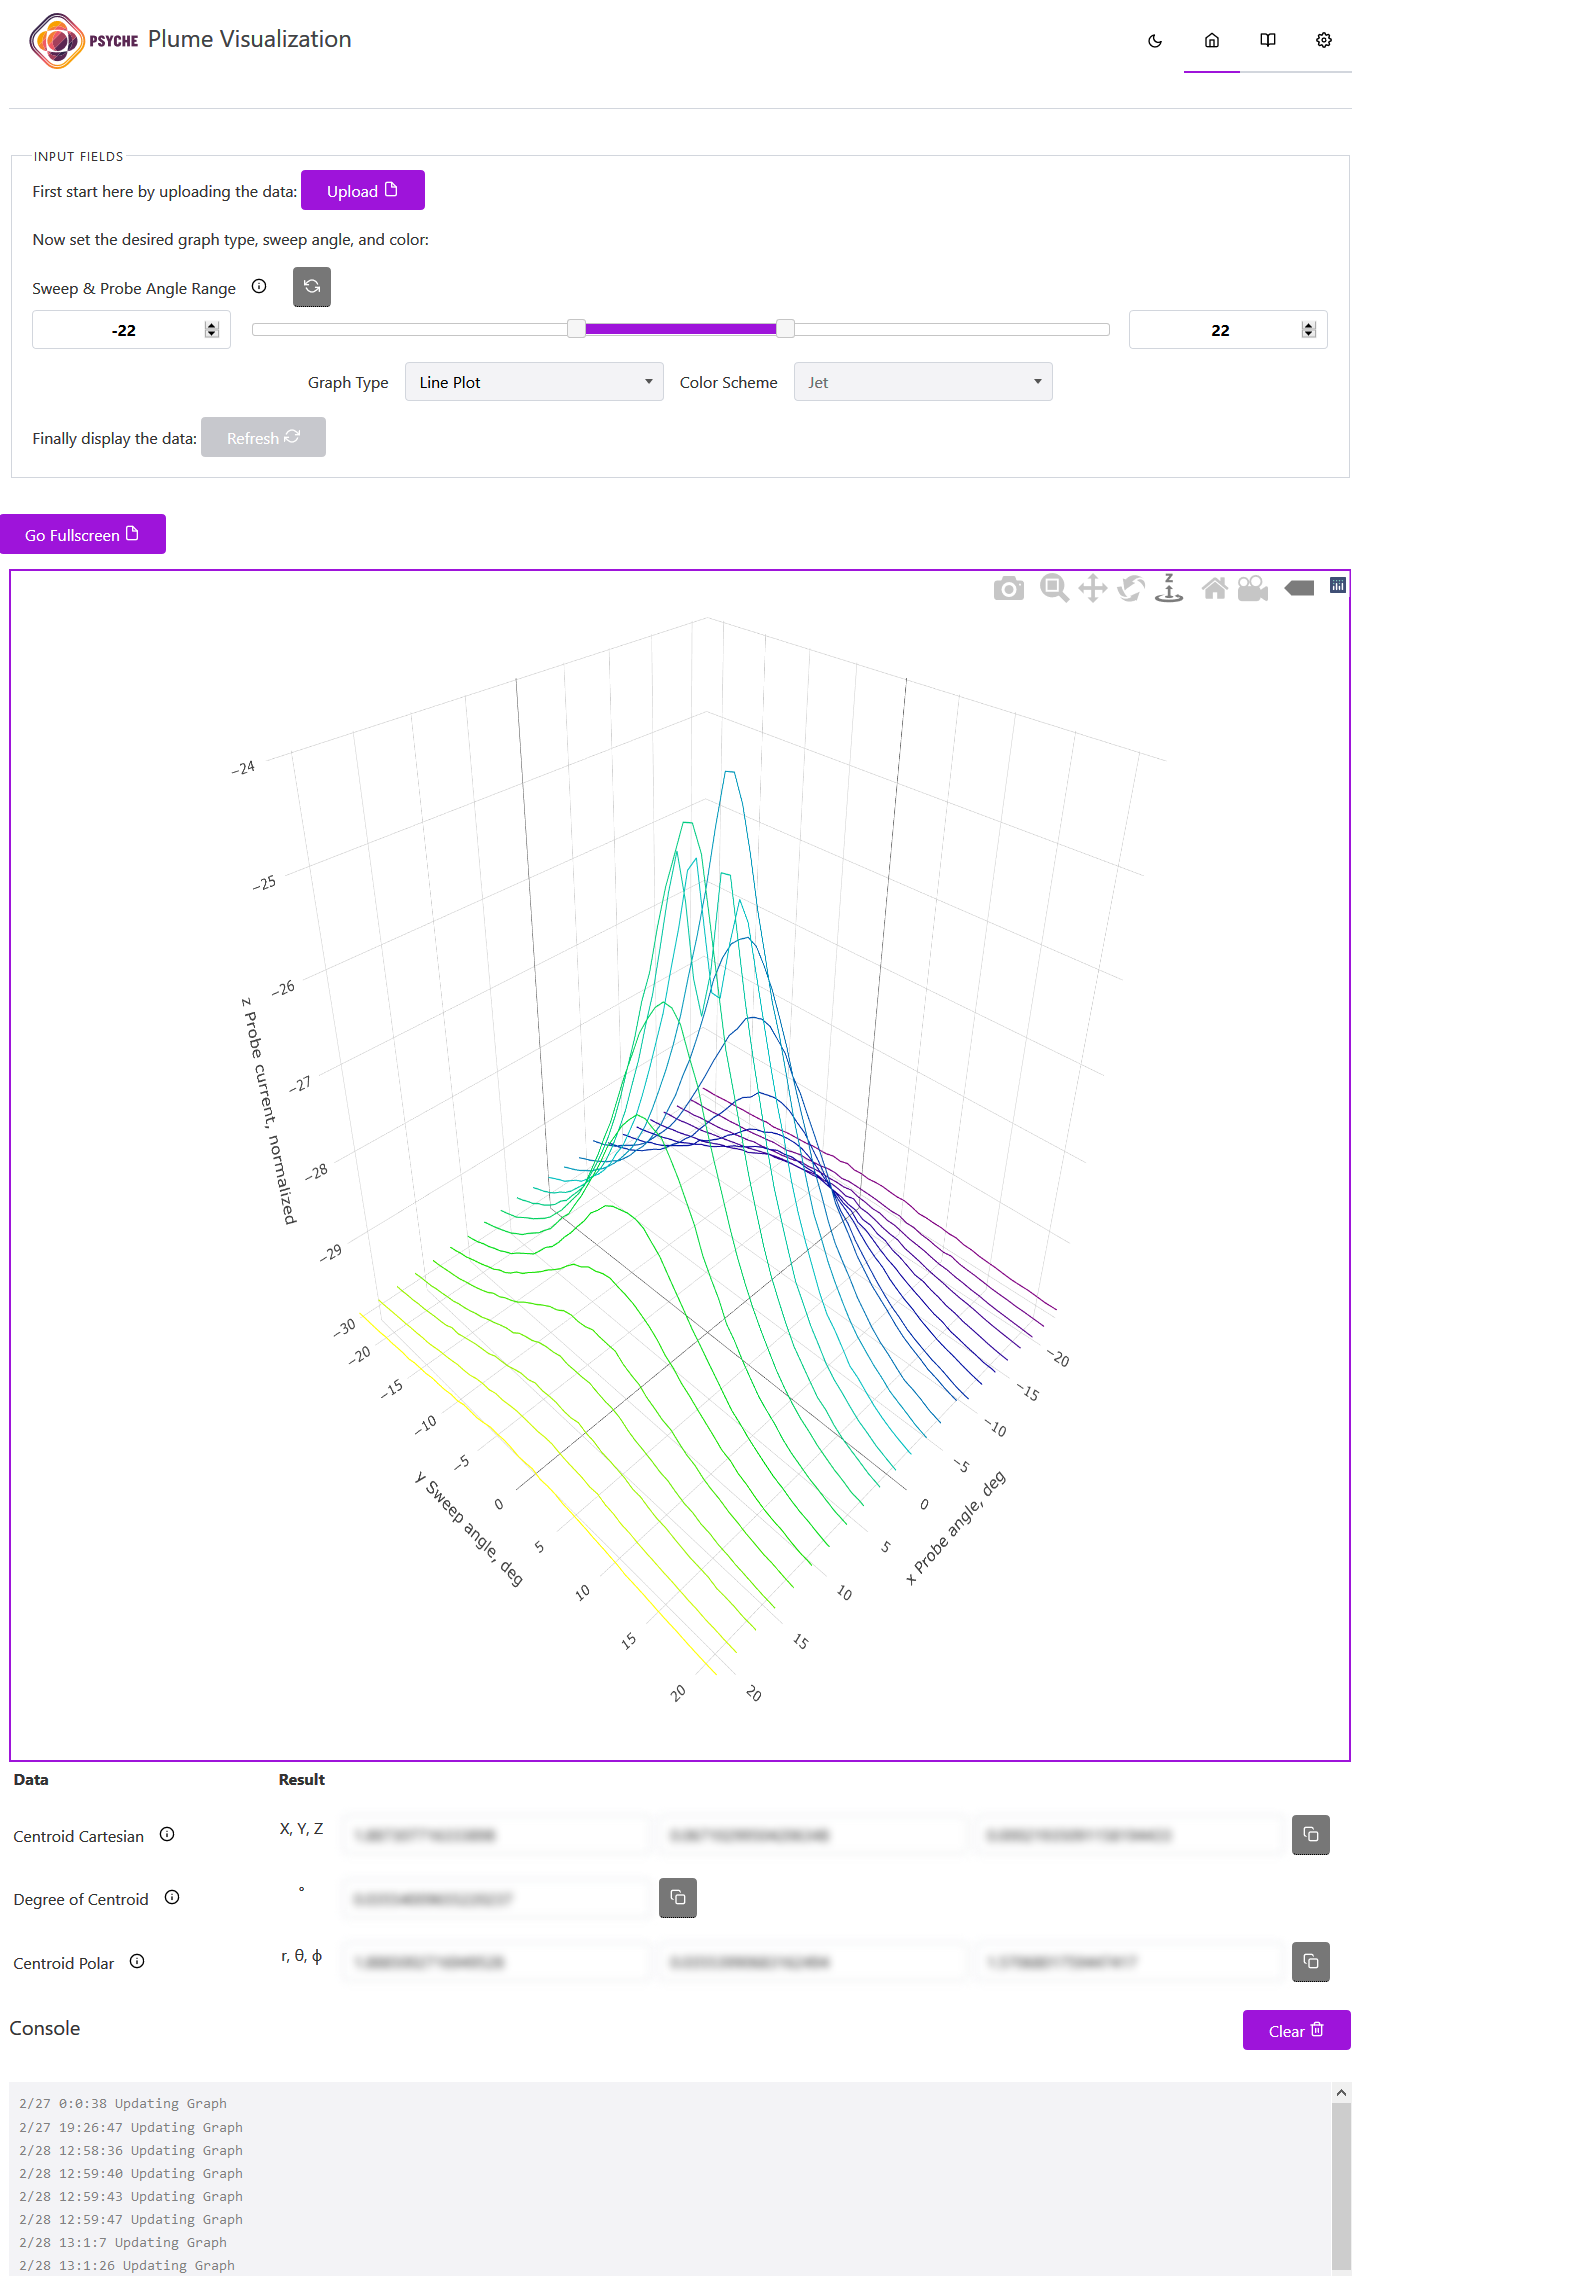
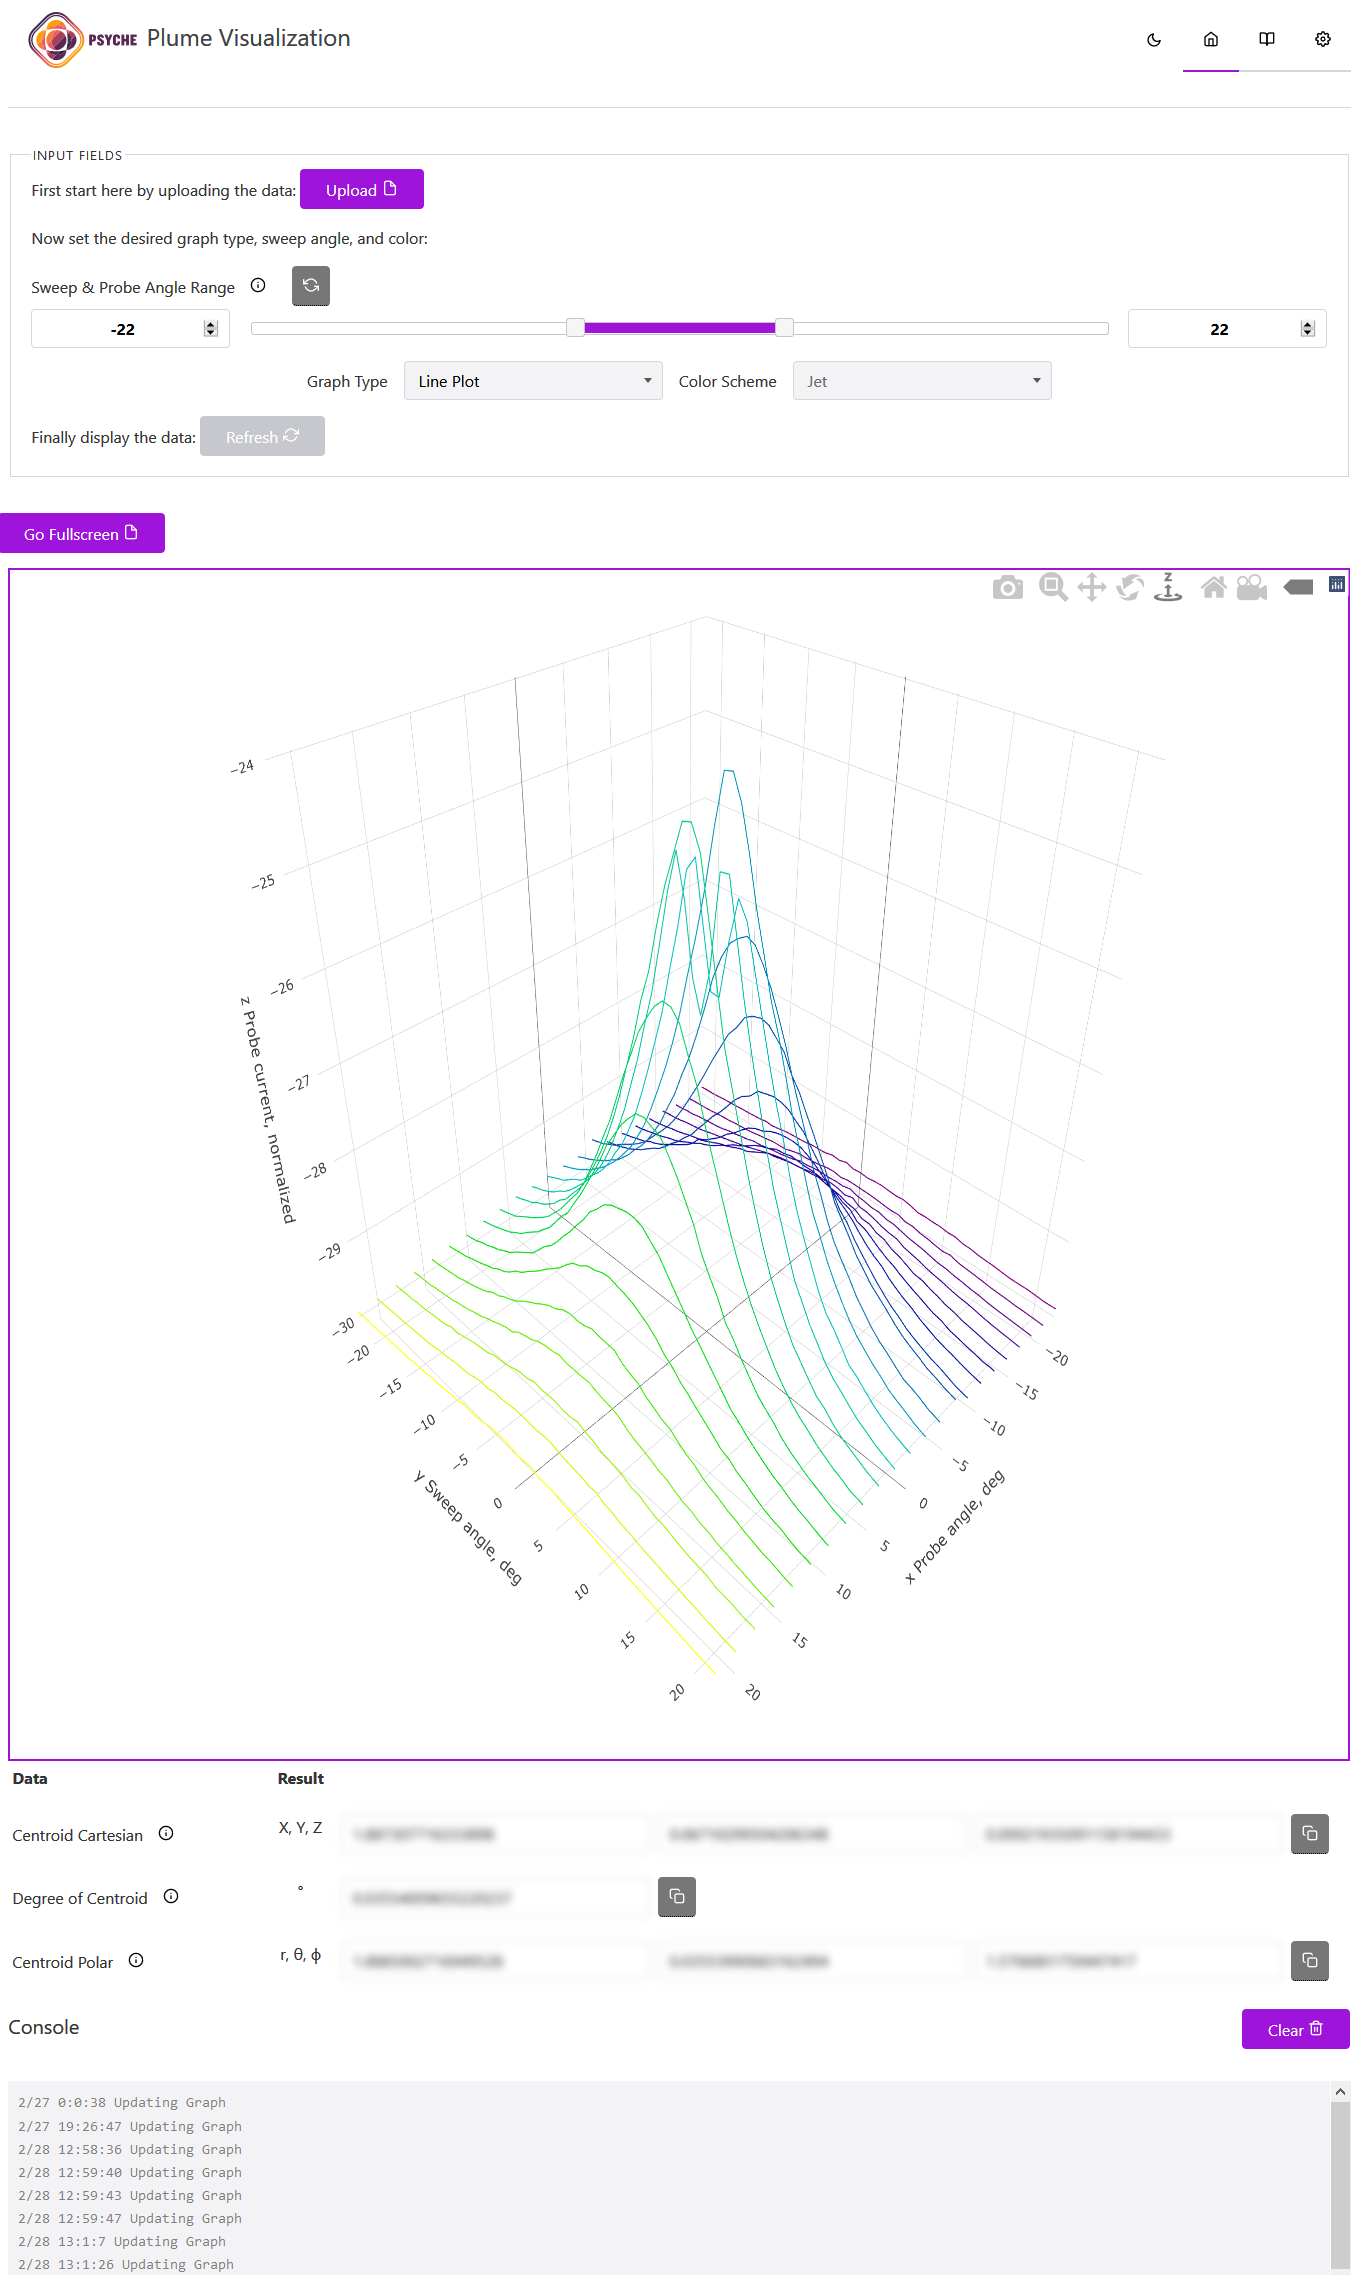
Updated image

diff --git a/nasa.html b/nasa.html
@@ -146,7 +146,7 @@
          <div class="twelve columns">
             <h3>Our Application</h3>
 
-            <img src="images/webapp1.PNG">  
+            <img class="center" src="images/webapp1.PNG">  
 
             <p class="center">
                Above is a screenshot of the application we have developed for data analysis and computation of the thruster plume.
